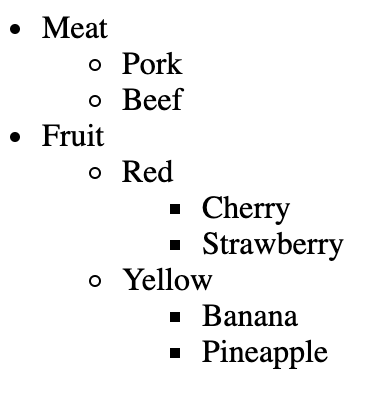
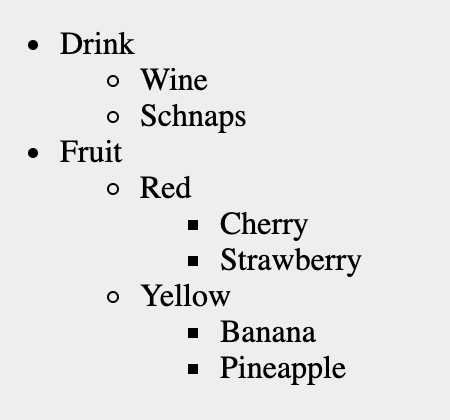
js_tree-from-object-DOM: Cypress tests added (#222)
* cypress tests added

* tests added

* tests refactored

* deleted support

* small redisign

* cy command edited

* picture replaced

* Update cypress/integration/treeFromObject.spec.js

* name of the command edited

* custom command improved?

* extra conditions deleted from command

diff --git a/cypress/integration/treeFromObject.spec.js b/cypress/integration/treeFromObject.spec.js
@@ -1,0 +1,37 @@
+'use strict';
+
+Cypress.Commands.add('haveChildren', {
+  prevSubject: true,
+}, (subject, number) => {
+
+  cy.wrap(subject).children().children().should('have.length', number);
+});
+
+describe('Tree from object app', () => {
+  beforeEach(() => {
+    cy.visit('/');
+  });
+
+  it('should have 1 unordered list with 2 list items', () => {
+    cy.get('#tree').haveChildren(2);
+  });
+
+  it('should have an <ul> with 2 list items in first list item', () => {
+    cy.contains('Drink').haveChildren(2);
+  });
+
+  it('should have an <ul> with 2 list items in second list item', () => {
+    cy.contains('Fruit').haveChildren(2);
+  });
+
+  it('should have 2 <li> in each <ul> in Fruits', () => {
+    cy.contains('Red').haveChildren(2);
+    cy.contains('Yellow').haveChildren(2);
+  });
+
+  it(`shouldn't have <ul> elements in 3rd children`, () => {
+    cy.contains('Cherry').children().should('have.length', 0);
+    cy.contains('Banana').children().should('have.length', 0);
+    cy.contains('Wine').children().should('have.length', 0);
+  });
+});

diff --git a/src/index.html b/src/index.html
@@ -3,7 +3,7 @@
   <head>
     <meta charset="UTF-8">
     <title>Title</title>
-    <link rel="stylesheet" href="./styles/main.css">
+    <link rel="stylesheet" href="./styles/main.scss">
   </head>
   <body>
 

diff --git a/src/scripts/main.js b/src/scripts/main.js
@@ -1,9 +1,9 @@
 'use strict';
 
 const food = {
-  'Meat': {
-    'Pork': {},
-    'Beef': {},
+  'Drink': {
+    'Wine': {},
+    'Schnaps': {},
   },
 
   'Fruit': {

diff --git a/README.md b/README.md
@@ -1,3 +1,10 @@
+1. Replace `<your_account>` with your Github username in the link
+    - [DEMO LINK](https://<your_account>.github.io/js_sort_table_DOM/)
+2. Follow [this instructions](https://mate-academy.github.io/layout_task-guideline/)
+    - Run `npm run test` command to test your code;
+    - Run `npm run test:only -- -n` to run fast test ignoring linter;
+    - Run `npm run test:only -- -l` to run fast test with additional info in console ignoring linter.
+
 # Tree from object
 
 ## Task
